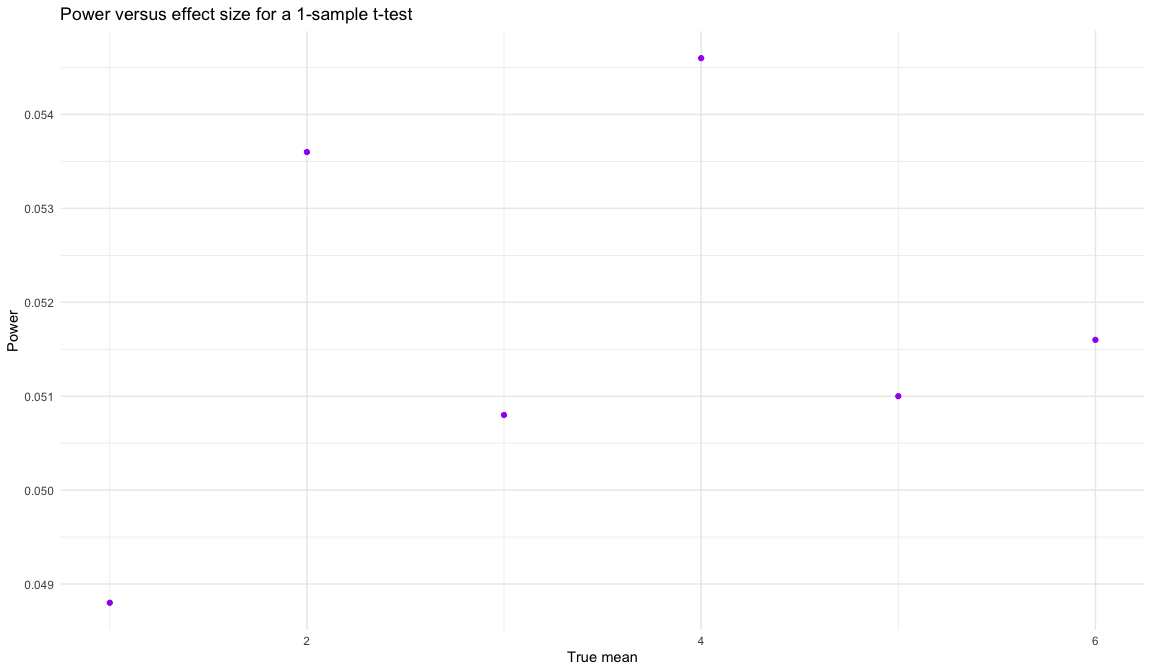
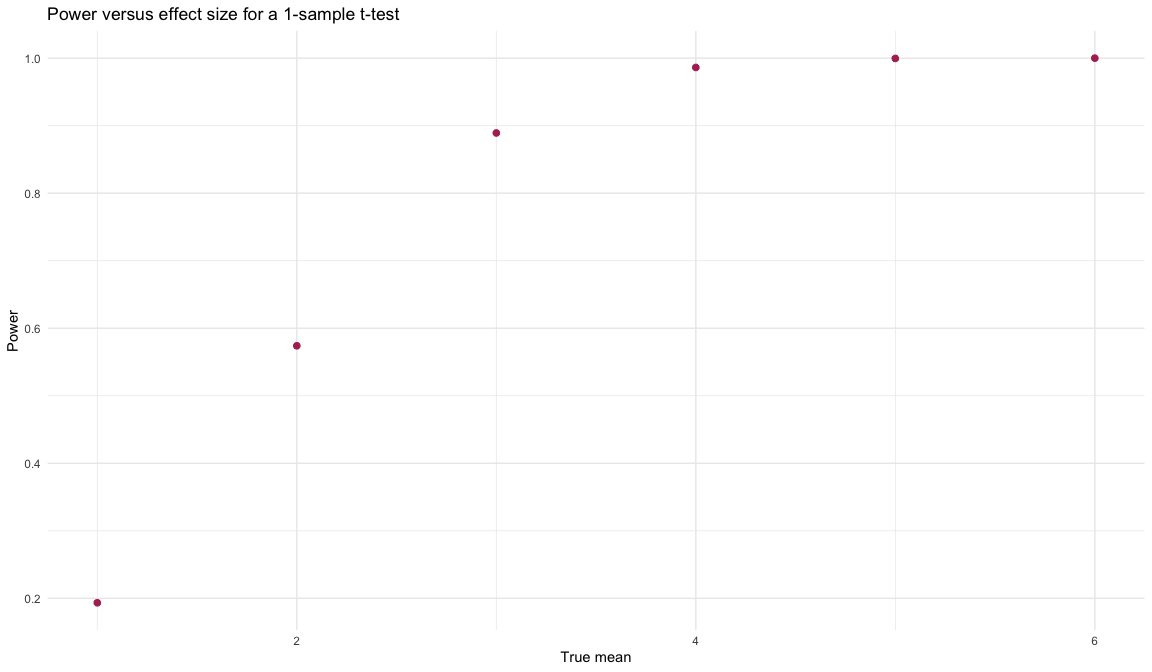
Making writing edits and fixing sim_t_test function

diff --git a/p8105_hw5_my2731.md b/p8105_hw5_my2731.md
@@ -4,16 +4,16 @@ November 16th, 2022
 
 ## Part 1: Wrangling longitudinal study data
 
-This zip file contains data from a longitudinal study that included a
-control arm and an experimental arm. Data for each participant is
-included in a separate file, and file names include the subject ID and
-arm.
+The `./long_data` folder contains data from a longitudinal study that
+included a control arm and an experimental arm. Data for each
+participant is included in a separate file, and file names include the
+subject ID and arm.
 
 The code chunk below imports the data in individual spreadsheets
-contained in `./long_data/`. To do this, I create a dataframe that
+contained in `./long_data`. To do this, we create a dataframe that
 includes the list of all files in that directory and the complete path
-to each file. As a next step, I `map` over paths and import data using
-the `read_csv` function. Finally, I `unnest` the result of `map`.
+to each file. As a next step, we `map` over paths and import data using
+the `read_csv` function. Finally, we can `unnest` the result of `map`.
 
 ``` r
 full_df = tibble(
@@ -32,7 +32,8 @@ file, converting from wide to long, and selecting relevant variables.
 tidy_df = full_df %>% 
   mutate(
     files = str_replace(files, ".csv", ""),
-    group = str_sub(files, 1, 3)) %>% 
+    group = recode(str_sub(files, 1, 3), con = "Control", exp = "Experimental")
+    ) %>% 
   pivot_longer(
     week_1:week_8,
     names_to = "week",
@@ -50,7 +51,12 @@ tidy_df %>%
   ggplot(aes(x = week, y = outcome, group = subj, color = group)) + 
   geom_point() + 
   geom_path() + 
-  facet_grid(~group) 
+  facet_grid(~group) +
+  labs(
+    x = "Week", 
+    y = "Outcome", 
+    color = "Group"
+  )
 ```
 
 ![](p8105_hw5_my2731_files/figure-gfm/unnamed-chunk-2-1.png)<!-- -->
@@ -62,6 +68,8 @@ change over time, but those in the experiment group increase their
 outcome in a roughly linear way.
 
 ## Part 2: U.S. Homicide Rates
+
+### Clean and summarise data
 
 The Washington Post has gathered data on homicides in 50 large U.S.
 cities. Let’s load the raw homicide data and inspect it.
@@ -95,10 +103,11 @@ about homicides in 50 cities across the US. The data contains the date,
 victim information (name, age, sex, race), location (city, state,
 latitude, longitude), and status of the case.
 
-Next, let’s tidy the data by creating a city_state variable, and
-changing wrongly entered data entries (notably, changing Tulsa, AL to
-Tulsa, OK). We will then summarise the data within cities to obtain the
-total number of homicides and the number of unsolved homicides.
+Next, let’s tidy the data by creating a `city_state` variable, and
+mutating entries that are incorrectly entered (notably, changing Tulsa,
+AL to Tulsa, OK). We will group by and summarise the data within cities
+to obtain the total number of homicides and the number of unsolved
+homicides.
 
 ``` r
 homicide_summary = homicide_data %>% 
@@ -130,6 +139,8 @@ homicide_summary
     ## 10 Cincinnati, OH         385     694
     ## # … with 40 more rows
 
+### Estimating the proportion of unsolved homicides in Baltimore
+
 Next, for the city of Baltimore, MD, we will use the `prop.test`
 function to estimate the proportion of homicides that are unsolved and
 its confidence interval.
@@ -147,22 +158,28 @@ baltimore_est %>%
   broom::tidy() %>% 
   select(estimate, conf.low, conf.high) %>% 
   mutate_all(~ . * 100) %>% 
-  rename("Estimated proportion of unsolved homicides" = estimate,
+  mutate(across(everything(), round, 2)) %>% 
+  rename("Estimated proportion of unsolved homicides (%)" = estimate,
          "Lower confidence limit" = conf.low, 
          "Upper confidence limit" = conf.high)
 ```
 
     ## # A tibble: 1 × 3
-    ##   `Estimated proportion of unsolved homicides` `Lower confidence limit` Upper …¹
-    ##                                          <dbl>                    <dbl>    <dbl>
-    ## 1                                         35.4                     33.7     37.2
-    ## # … with abbreviated variable name ¹`Upper confidence limit`
+    ##   `Estimated proportion of unsolved homicides (%)` Lower confidence li…¹ Upper…²
+    ##                                              <dbl>                 <dbl>   <dbl>
+    ## 1                                             35.4                  33.7    37.2
+    ## # … with abbreviated variable names ¹`Lower confidence limit`,
+    ## #   ²`Upper confidence limit`
 
 We can see that the estimated proportion of of unsolved homicides in
 Baltimore is 35.4439335%. We are 95% confident that the proportion of
 unsolved homicides in Baltimore is between 33.684014% and 37.2437542%.
 
-Next, we want use `map` to apply the `prop.test` function to estimate
+### Estimating the proportion of unsolved homicides across cities
+
+While the code chunk above lets us compute the output for single city,
+we may want a more efficient way to get estimates for all cities. We
+will therefore use `map2` to apply the `prop.test` function to estimate
 the proportion of unsolved homicides in all cities in our dataset.
 
 ``` r
@@ -211,10 +228,18 @@ unsolved_homicides %>%
     x = "Location",
     y = "Estimated proportion of unsolved homicides",
     title = "Proportion of homicides that are unsolved in 50 U.S. cities, 2007-2017",
+    caption = paste0(
+          "Error bars represent the 95% confidence interval.",
+          "\nSource: The Washington Post.")
   )
 ```
 
 ![](p8105_hw5_my2731_files/figure-gfm/plot-1.png)<!-- -->
+
+We can see from the above plot that the estimated proportion of unsolved
+homicides ranges from \~25% to \~75%. The cities with the lowest
+unsolved homicide rates include Chicago and New Orleans, while cities
+with the highest unsolved homicide rates include Charlotte and Richmond.
 
 ## Part 3: Simulating parameters that affect power
 
@@ -223,6 +248,8 @@ hypothesis will be rejected, or what the power of a study will be. Power
 depends on the sample size of our study, effect size, and error
 variance. In this problem, we will conduct a simulation to explore power
 in a one-sample t-test.
+
+### Iterating a t-test computation
 
 First, we will write a function that generates a random sample from a
 normal distribution and outputs the results for a one-sample t-test of
@@ -234,7 +261,7 @@ sim_t_test = function(true_mean) {
   
   sample = rnorm(n = 30, sd = 5, mean = true_mean)
   
-  test_results = t.test(sample, mu = true_mean)
+  test_results = t.test(sample)
   
   test_results %>% 
     broom::tidy()
@@ -242,7 +269,7 @@ sim_t_test = function(true_mean) {
 ```
 
 We will map the `sim_t_test` function 5000 times, setting the true
-$\mu = 0$, and saving the estimated mean and p-value from the t-test
+$\mu = 0$, and save the estimated mean and p-value from the t-test
 results.
 
 ``` r
@@ -259,16 +286,16 @@ sim_df
     ## # A tibble: 5,000 × 4
     ##    true_mean iterate estimate p.value
     ##        <dbl>   <int>    <dbl>   <dbl>
-    ##  1         0       1  -0.0461  0.962 
-    ##  2         0       2   1.03    0.235 
-    ##  3         0       3  -1.36    0.0753
-    ##  4         0       4  -0.811   0.275 
-    ##  5         0       5   0.405   0.698 
-    ##  6         0       6  -1.93    0.0326
-    ##  7         0       7   0.572   0.644 
-    ##  8         0       8   0.663   0.449 
-    ##  9         0       9   0.634   0.585 
-    ## 10         0      10  -2.20    0.0234
+    ##  1         0       1 -1.50      0.113
+    ##  2         0       2  0.874     0.293
+    ##  3         0       3 -0.303     0.723
+    ##  4         0       4 -0.00765   0.994
+    ##  5         0       5  0.930     0.430
+    ##  6         0       6 -0.415     0.692
+    ##  7         0       7 -0.363     0.654
+    ##  8         0       8 -0.0916    0.908
+    ##  9         0       9 -0.403     0.657
+    ## 10         0      10  0.577     0.490
     ## # … with 4,990 more rows
 
 The resulting dataset has 5000 iterations of estimates for $\hat{\mu}$
@@ -278,11 +305,13 @@ hover around 0. For $\hat{\mu}$ estimates that are far from 0, the
 corresponding p-value is less than 0.05, indicating a rejection of the
 null hypothesis.
 
+### Computing power across varying effect sizes
+
 Now, we want to see how often $H_0$ is rejected when we increase $\mu$.
 For this, we will iterate on 5000 random samples of a normal
 distribution for $\mu= \{1,2,3,4,5,6\}$. We will also create a
 `reject_h0` variable to indicate whether the null hypothesis of
-$H_0: \mu = true mean$ was rejected based on the `p.value`.
+$H_0: \mu = 0$ was rejected based on the `p.value`.
 
 ``` r
 power_df = expand_grid(
@@ -299,16 +328,16 @@ power_df
     ## # A tibble: 30,000 × 5
     ##    true_mean iterate estimate p.value reject_h0        
     ##        <int>   <int>    <dbl>   <dbl> <chr>            
-    ##  1         1       1    1.30    0.762 Null not rejected
-    ##  2         1       2    0.339   0.468 Null not rejected
-    ##  3         1       3    1.34    0.698 Null not rejected
-    ##  4         1       4   -0.433   0.142 Null not rejected
-    ##  5         1       5    0.658   0.720 Null not rejected
-    ##  6         1       6    0.248   0.397 Null not rejected
-    ##  7         1       7    0.154   0.300 Null not rejected
-    ##  8         1       8    1.94    0.213 Null not rejected
-    ##  9         1       9    0.830   0.830 Null not rejected
-    ## 10         1      10    1.20    0.818 Null not rejected
+    ##  1         1       1   1.90    0.0170 Null rejected    
+    ##  2         1       2  -0.445   0.680  Null not rejected
+    ##  3         1       3   1.69    0.0540 Null not rejected
+    ##  4         1       4   0.734   0.463  Null not rejected
+    ##  5         1       5  -0.155   0.873  Null not rejected
+    ##  6         1       6   2.17    0.0459 Null rejected    
+    ##  7         1       7   0.650   0.587  Null not rejected
+    ##  8         1       8   0.813   0.358  Null not rejected
+    ##  9         1       9   0.0733  0.927  Null not rejected
+    ## 10         1      10   1.17    0.323  Null not rejected
     ## # … with 29,990 more rows
 
 The resulting dataset has 30000 iterations for true mean values ranging
@@ -328,7 +357,7 @@ summary_power = power_df %>%
 
 summary_power %>% 
   ggplot(aes(x = true_mean, y = prop_reject)) + 
-  geom_point(colour = "purple") + 
+  geom_point(colour = "maroon", size = 2) + 
   labs(
     x = "True mean",
     y = "Power",
@@ -338,8 +367,10 @@ summary_power %>%
 
 ![](p8105_hw5_my2731_files/figure-gfm/unnamed-chunk-5-1.png)<!-- -->
 
-Notably, we see that as the effect size $\mu$ increases, the power
-increases.
+The above plot shows that as the distance between $\mu$ and $0$
+increases (i.e. the effect size), the power (probability of rejecting
+the null hypothesis given $H_\alpha: \mu ≠ 0$) increases. For the
+largest effect size of $\mu ≠ 6$, the power was 100%.
 
 Finally, we can plot the average estimates of $\hat{\mu}$ against the
 true $\mu$, for samples where the null hypothesis was rejected versus
@@ -348,8 +379,8 @@ not rejected.
 ``` r
 power_df %>% 
   group_by(true_mean, reject_h0) %>% 
-  summarise(mean_est = mean(estimate, na.rm = TRUE)) %>% 
-  mutate(reject_h0 = fct_relevel(c("Null rejected", "Null not rejected"))) %>% 
+  summarise(mean_est = mean(estimate)) %>% 
+  mutate(reject_h0 = fct_relevel(reject_h0, c("Null rejected", "Null not rejected"))) %>% 
   ggplot(aes(x = true_mean, y = mean_est, colour = reject_h0)) + 
   geom_point() + 
   labs(
@@ -363,8 +394,15 @@ power_df %>%
 ![](p8105_hw5_my2731_files/figure-gfm/unnamed-chunk-6-1.png)<!-- -->
 
 Based on the plot, we can see that for samples where the null hypothesis
-was rejected, average $\hat{\mu}$̂ estimates across tests for which the
-null is rejected is not equal to the true value of $\mu$. This is in
-accordance to what we would expect, as estimated means which deviate
-substantially from the true mean will lead to a rejection of the null
-hypothesis.
+was rejected, average $\hat{\mu}$ estimates across tests for which the
+null is rejected is much lower than true value of $\mu$. This is in
+accordance to what we would expect, as samples with an estimated mean
+closer to 0 will not reject the null, while samples which were closer to
+the true mean value will reject the the null hypothesis.
+
+Moreover, as the effect size ($\mu$) increased, the estimated means
+between samples that rejected/did not reject the null deviated further
+apart from each other. Notably, for $\mu = 6$, since all samples led to
+a rejection of the null hypothesis, there is no $\hat{\mu}$ value,
+indicating that the effect size was too large to sample a distribution
+which falsely failed to reject the null.
